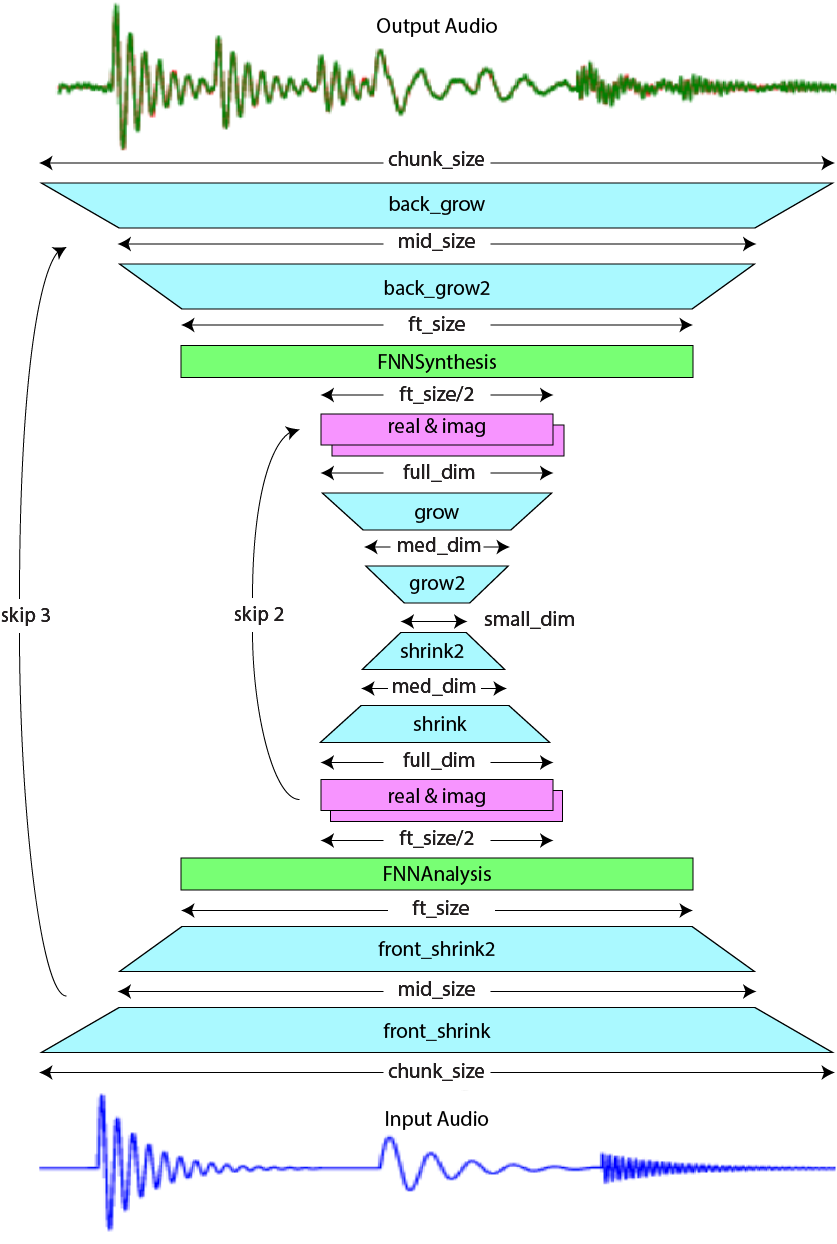
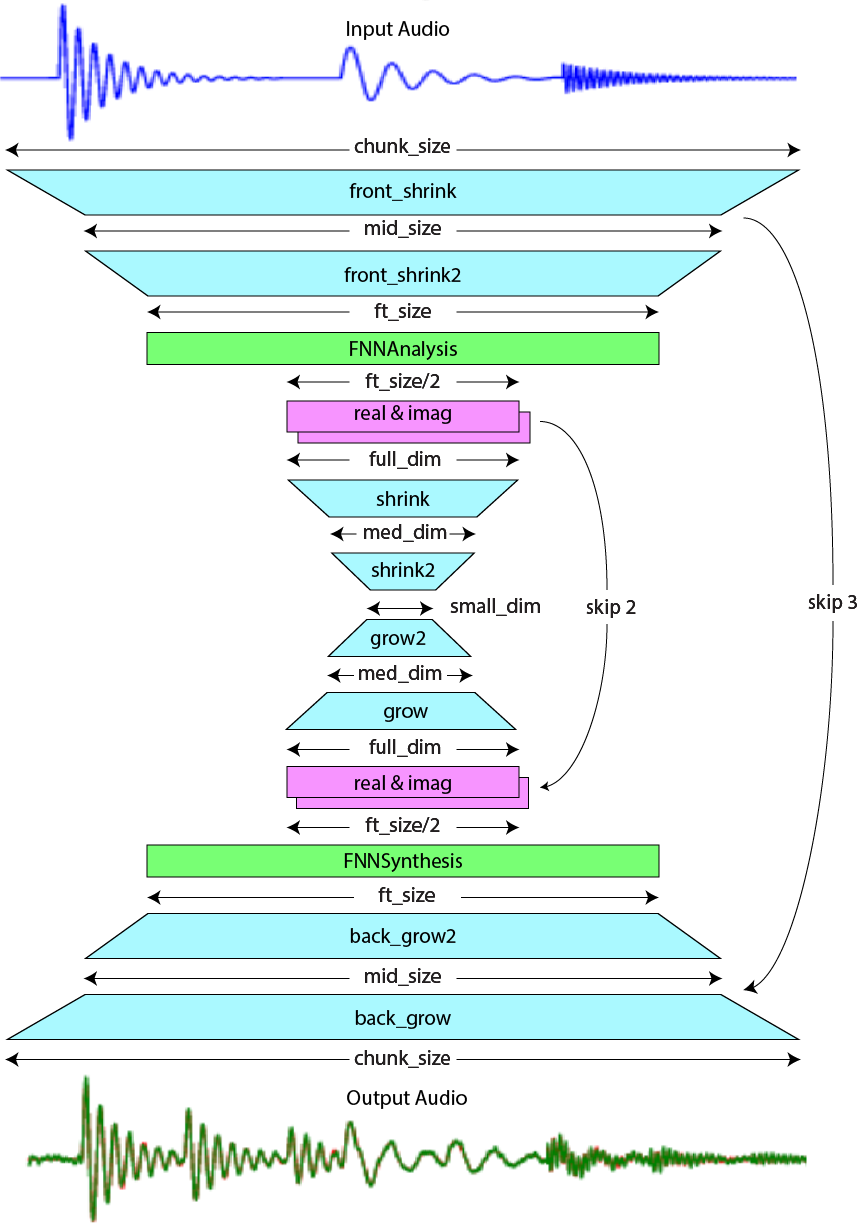
re-did diagram from top to bottom; makes more sense to me

diff --git a/docs/README.md b/docs/README.md
@@ -2,9 +2,8 @@
 Here we have, not proper documentation yet, just a list of notes as I
 develop the system.
 
-Here's a picture of the 'Spectral Shrink-Grow' model, which follows the
-notation of some people, in which inputs are on the bottom and outputs
-are on the top.  (I prefer left to right, but it's easier to fit the text
-with a vertical flow!)
+Here's a picture of the 'Spectral Shrink-Grow' model, where information flows
+from top to bottom, and all layers are 'dense'/'Linear', all activations are
+LeakyReLU (tried ELU & SELU, this worked best).
 
 ![model_diagram](model_diagram.png)
